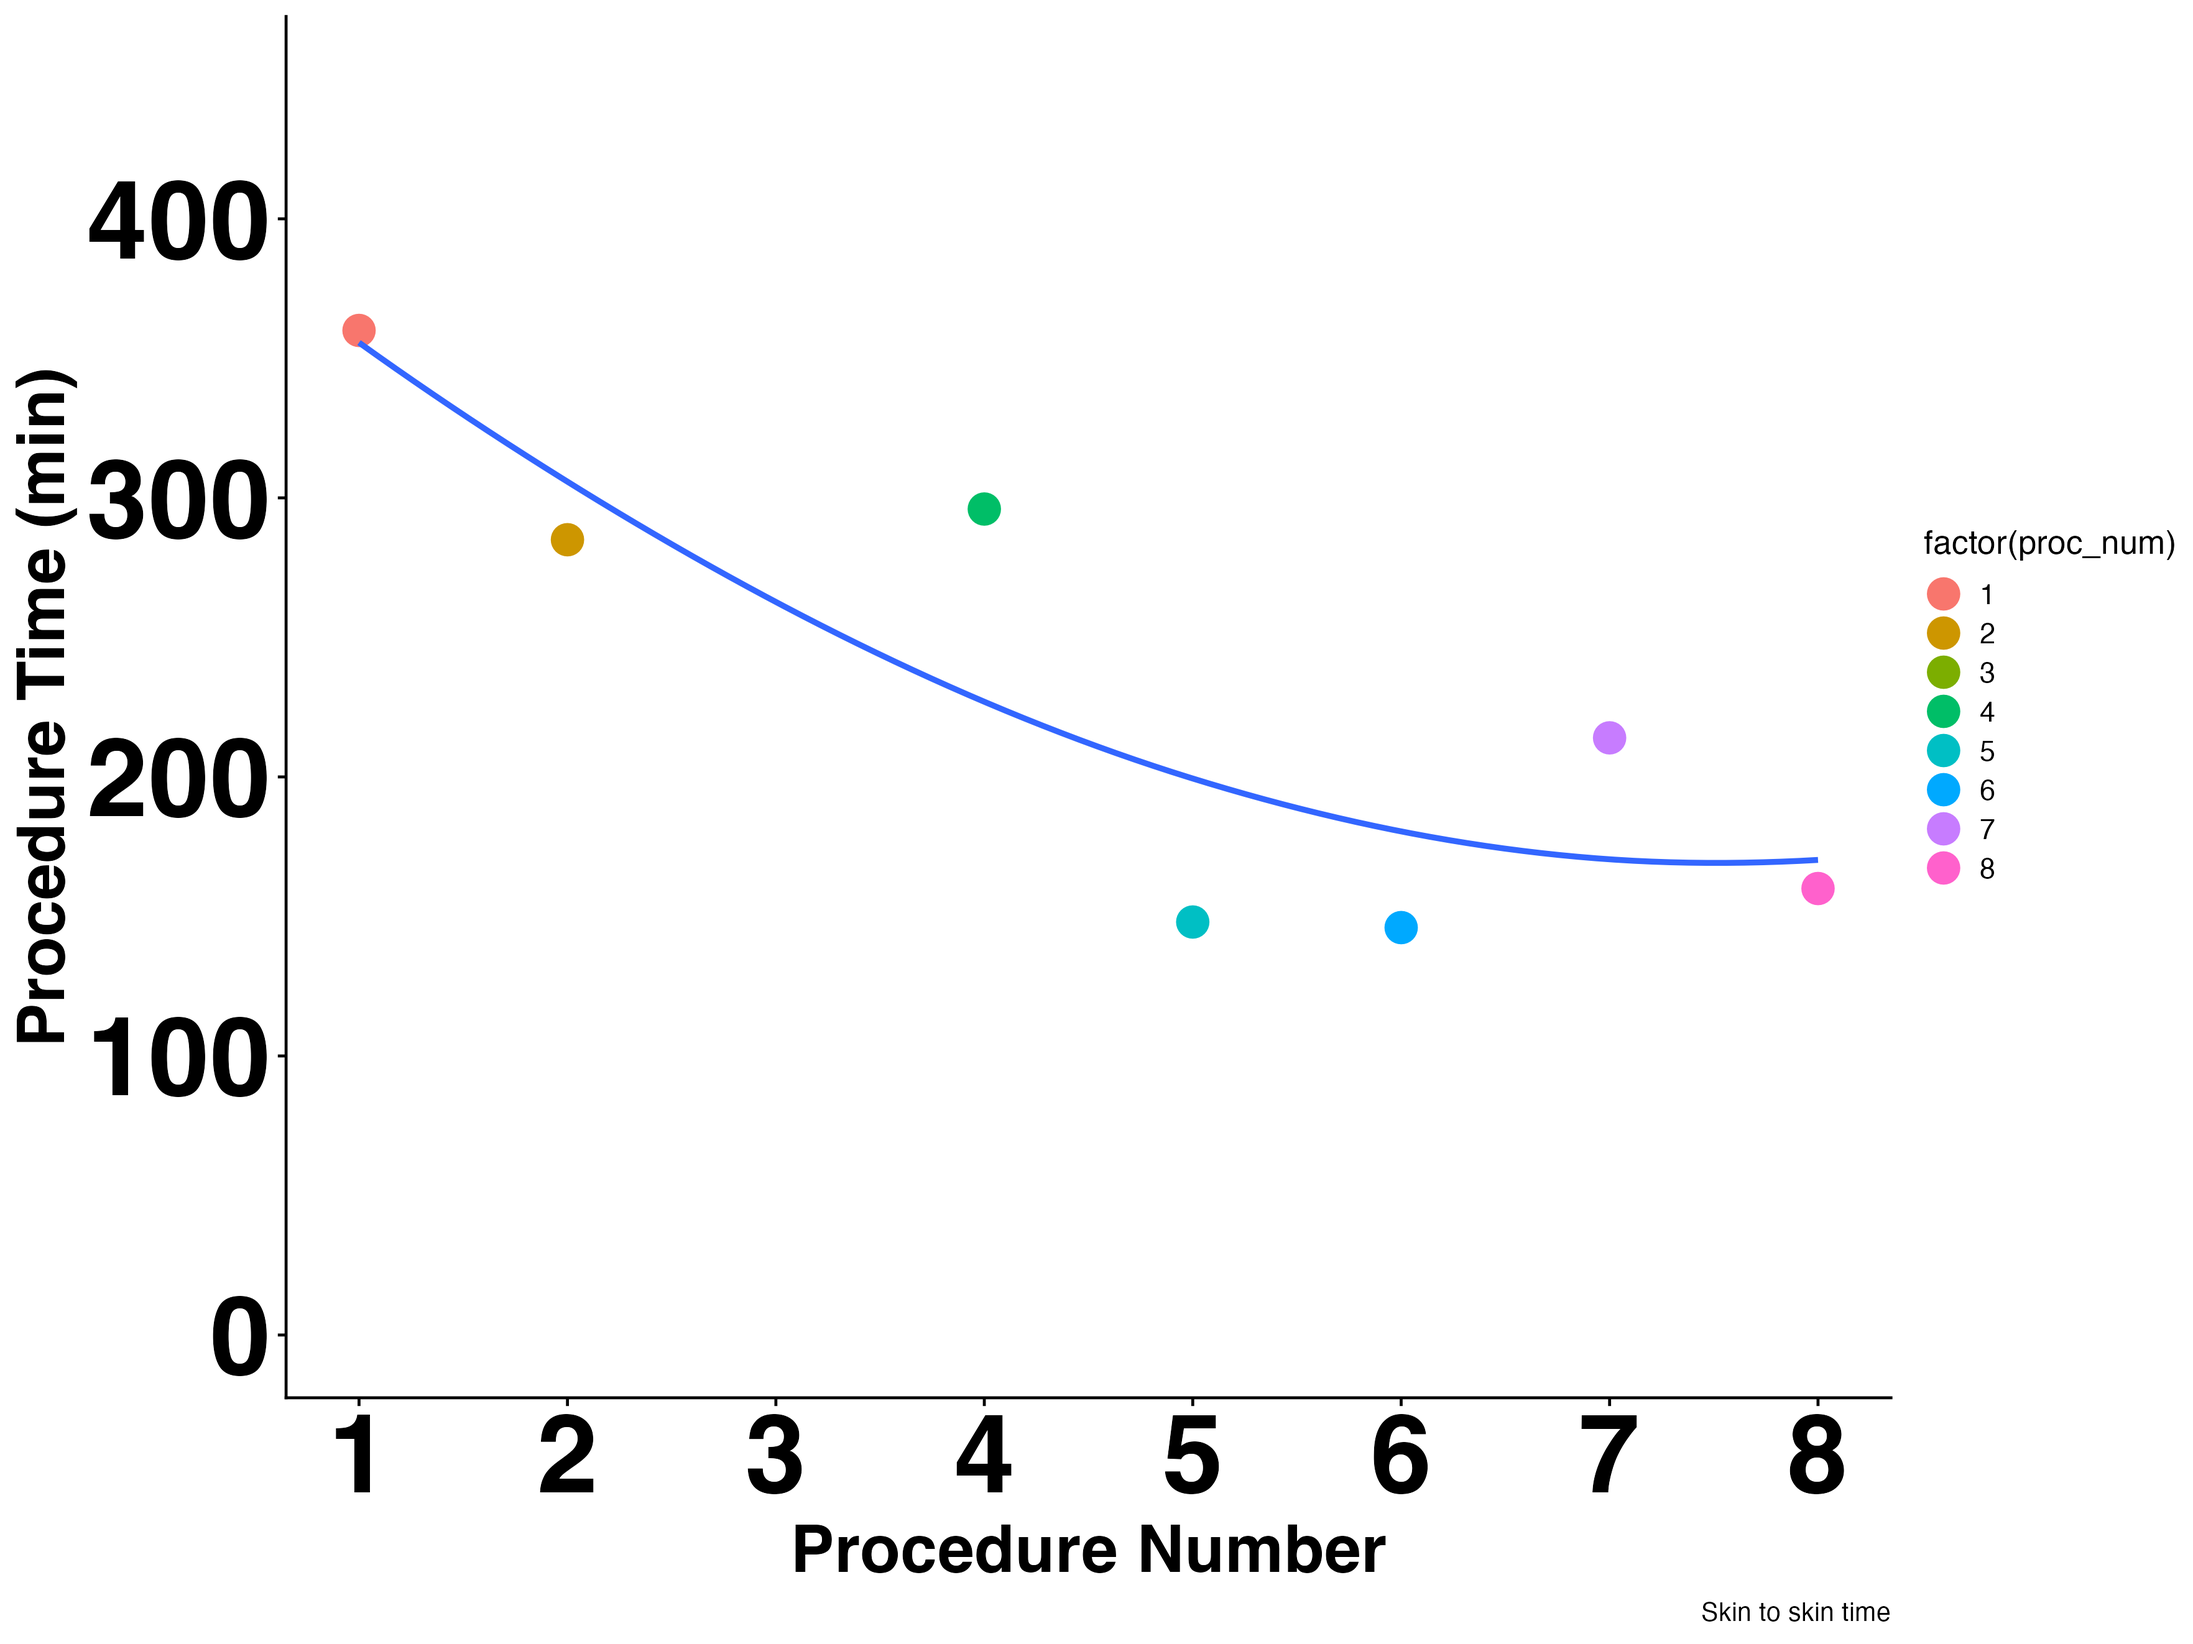
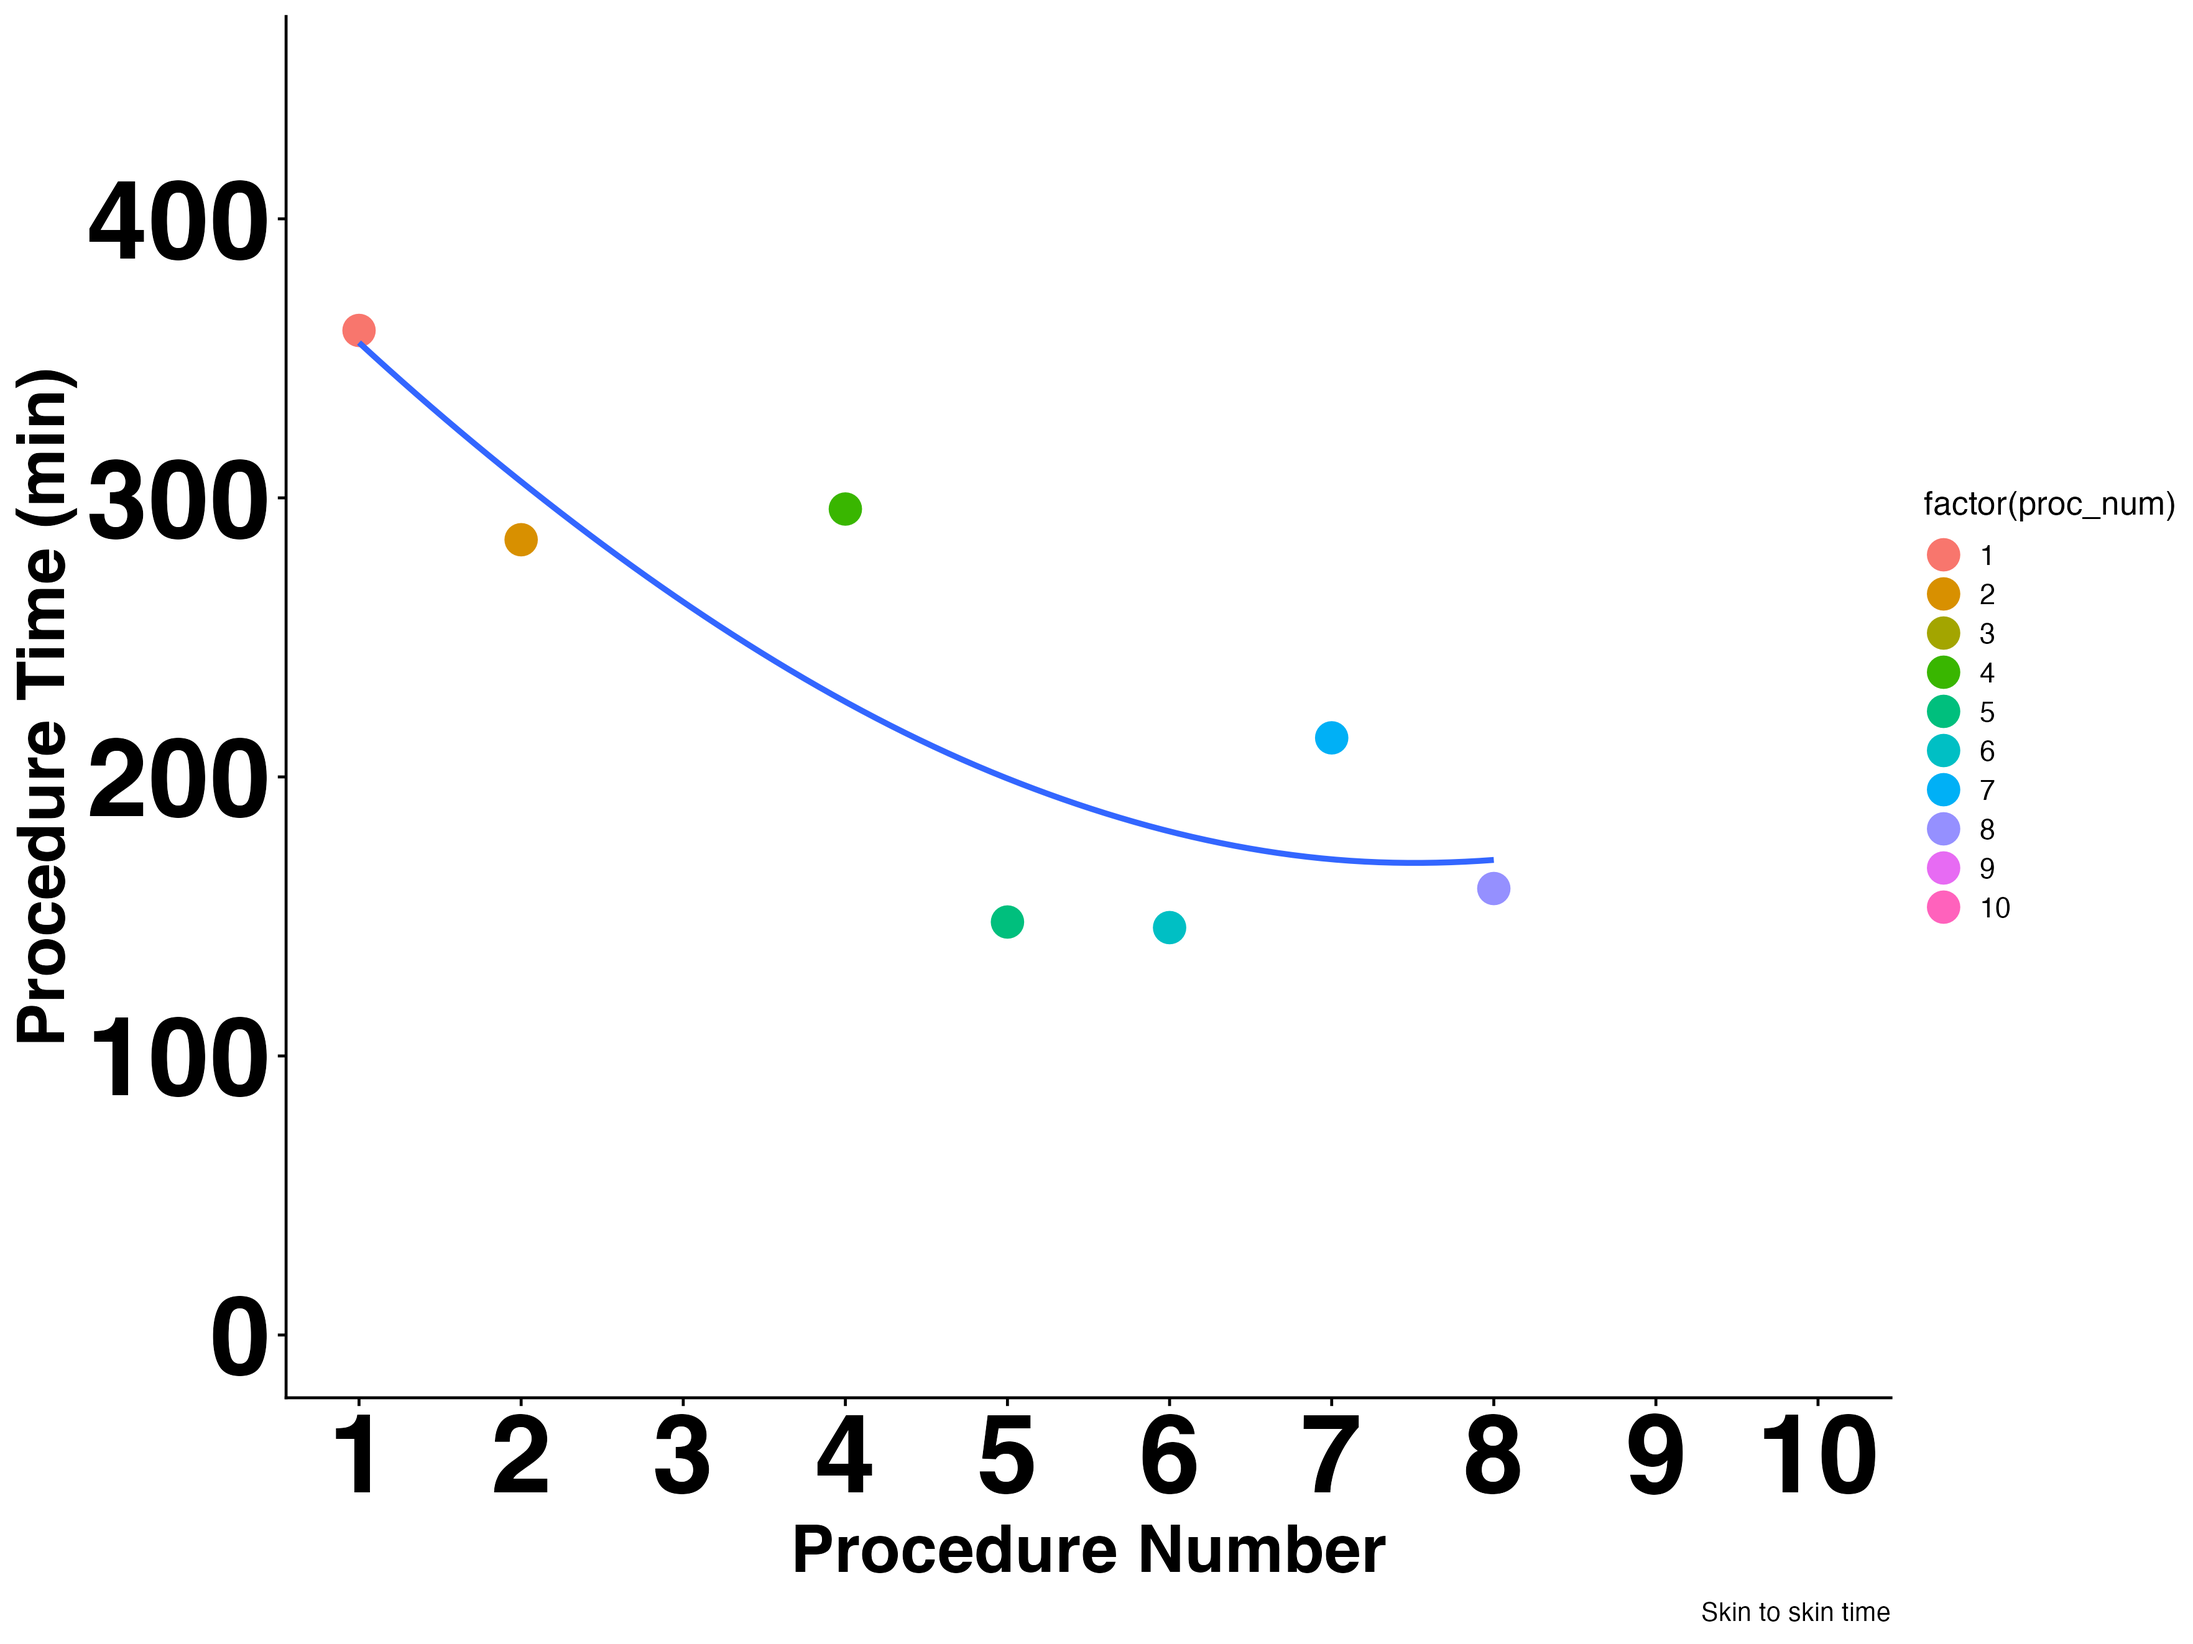
update rove time raw data with VCAS16 and VCAS17 data. Also replace geom_jitter with reproducible jeom_point with a seed = 42494

diff --git a/code/step_3_descriptive_stats.md b/code/step_3_descriptive_stats.md
@@ -1,7 +1,7 @@
 ---
 title: "Descriptive Statistics"
 author: "Jonathan Salas"
-date: "Last Updated 24 September, 2024"
+date: "Last Updated 21 October, 2024"
 output: 
   html_document: 
     df_print: kable
@@ -20,6 +20,7 @@ output:
 
 
 ## load Subject Data
+
 
 
 # Descriptive Statistics
@@ -42,7 +43,7 @@ Hypotheses:
 
 | mean_proc_min| sd_proc_min| mean_abl_min| sd_abl_min| mean_irrigation| sd_irrigation|
 |-------------:|-----------:|------------:|----------:|---------------:|-------------:|
-|      229.8571|    84.86937|      32.5875|   18.87275|        398.5714|      192.4383|
+|      229.8571|    84.86937|       32.676|   17.10977|        384.3333|      170.2548|
 
 </div>
 
@@ -113,5 +114,5 @@ Make temporary mapping data.
 
 
 ```
-## [1] "Tue Sep 24 09:25:33 2024"
+## [1] "Mon Oct 21 14:31:37 2024"
 ```
